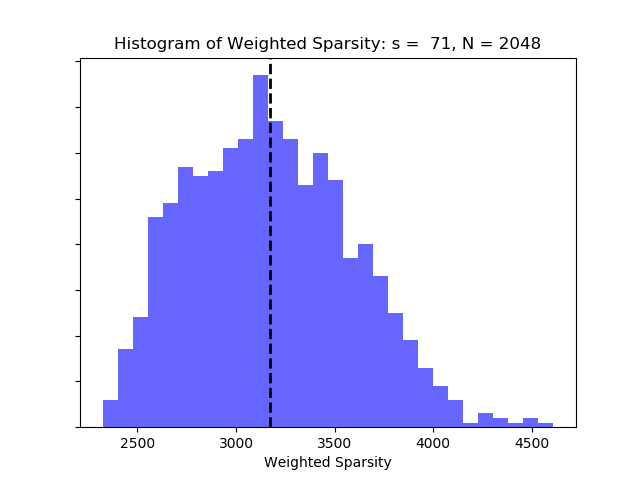
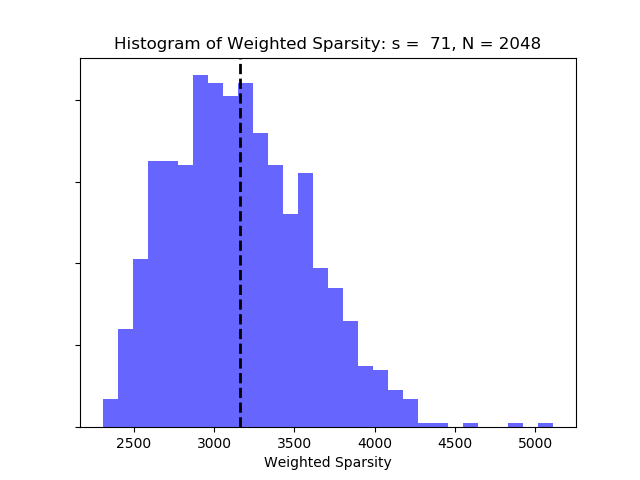
added new stats to data

diff --git a/gen_stats.py b/gen_stats.py
@@ -7,61 +7,63 @@ from trees import sTree
 import matplotlib.pyplot as plt
 from scipy.stats import norm # for normal random variable
 
-# number of basis functions
-bN = 2**11 # size of an N sample signal
-# number of realizations
-sampN = 1000
-# list for values of s
-svals = []
-# lists for storing data
-meanvals = []
-plus1std = []
-minus1std = []
+# iterate over different N which are powers of 2
+for d in range(7,15):
+    print(d)
+    # number of basis functions
+    bN = 2**d # size of an N sample signal
+    # number of realizations
+    sampN = 1000
+    # list for values of s
+    svals = []
+    # lists for storing data
+    meanvals = []
+    plus1std = []
+    minus1std = []
 
-# iterate over various sparsity levels
-for sle in range(70,72):
-    # instantiate a tree
-    T = sTree(s=sle,N=bN)
-    print(sle)
-    # generate samples and compute average
-    avg = 0.
-    vals = [] # list of values of the K(T) for generated T's
+    # iterate over various sparsity levels
+    for sle in range(int(0.02*bN),int(0.10*bN)):
+        # instantiate a tree
+        T = sTree(s=sle,N=bN)
+        #print(sle)
+        # generate samples and compute average
+        vals = [] # list of values of the K(T) for generated T's
     
-    # generate sampN trees
-    for i in range(0,sampN):
-        T.reset_tree()
-        T.grow_tree()
-        # compute average
-        avg += (1./sampN)*T.norm
-        # save value
-        vals.append(T.norm)
+        # generate sampN trees
+        for i in range(0,sampN):
+            T.reset_tree()
+            T.grow_tree()
+            # save value
+            vals.append(T.norm)
     
-    # compute standard deviation
-    stdval = np.std(vals)
-    print(avg)
-    print(sum(vals)/len(vals))
+        # compute standard deviation
+        stdval = np.std(vals)
+        avg = sum(vals)/len(vals)
     
-    # genereate histogram
-    fig, ax = plt.subplots(1)
-    plt.hist(vals,bins=30,alpha=0.6,color='b')
-    plt.axvline(sum(vals)/len(vals), color='k', linestyle='dashed', linewidth=2)
-    ax.set_xlabel('Weighted Sparsity')
-    ax.set_yticklabels([])
-    title = "Histogram of Weighted Sparsity: s = %3d, N = %4d" % (sle,bN)
-    plt.title(title)
+        # genereate histogram
+        fig, ax = plt.subplots(1)
+        plt.hist(vals,bins=30,alpha=0.6,color='b')
+        plt.axvline(sum(vals)/len(vals), color='k', linestyle='dashed', linewidth=2)
+        ax.set_xlabel('Weighted Sparsity')
+        ax.set_yticklabels([])
+        title = "Histogram of Weighted Sparsity: s = %3d, N = %4d" % (sle,bN)
+        plt.title(title)
     
-    # save histogram
-    plt.savefig("plots/"+str(sle)+"_"+str(bN)+"_histo.png")
+        # save histogram
+        plt.savefig("plots/"+str(sle)+"_"+str(bN)+"_histo.png")
+        # close figure
+        plt.close(1)
 
-    # save the data to appropriate arrays
-    svals.append(sle)
-    plus1std.append(avg + stdval)
-    minus1std.append(max(avg - stdval,0))
-    meanvals.append(avg)
+        # save the data to appropriate arrays
+        svals.append(sle)
+        plus1std.append(avg + stdval)
+        minus1std.append(max(avg - stdval,0))
+        meanvals.append(avg)
 
-# save the generated data to be used for plotting later
-bNstr = str(bN)
-np.save('data/'+bNstr+'_svals.npy',svals)
-np.save('data/'+bNstr+'_means.npy',meanvals)
-np.save('data/'+bNstr+'_p1std.npy',plus1std)
-np.save('data/'+bNstr+'_m1std.npy',minus1std)
+    # save the generated data to be used for plotting later
+    sstr = str(sle)
+    bNstr = str(bN)
+    np.save('data/'+bNstr+'_svals.npy',svals)
+    np.save('data/'+bNstr+'_means.npy',meanvals)
+    np.save('data/'+bNstr+'_p1std.npy',plus1std)
+    np.save('data/'+bNstr+'_m1std.npy',minus1std)

diff --git a/get_plot_kts_growth.py b/get_plot_kts_growth.py
@@ -8,7 +8,7 @@ from cal_kts import BiTree
 
 
 # calculate \Theta^2s for fixed N
-d = 11
+d = 12
 N = 2**d
 num = str(N)
 # load data from file
@@ -39,9 +39,7 @@ plt.plot(svals,meanvals,label='$\mathbb{E}[K(T_s)$]')
 plt.plot(svals,theta2s,label='$\Theta^2s$')
 plt.plot(svals,ksvals,label='$K_{\mathcal{T}}(s)$')
 # plot N
-plt.plot(svals,N*np.ones((len(svals),)),label='$N=2^{11}$')
-# plot some desired sparsity growth
-plt.plot(svals,11*svals**(2),label='$C(s)$')
+plt.plot(svals,N*np.ones((len(svals),)),label='$N=$'+num)
 
 # set axis scale
 ax.set_yscale('log')
@@ -51,7 +49,6 @@ plt.legend(loc=4)
 
 # set axis label
 plt.xlabel('$s$--number of non-zero coefficients')
-#plt.ylabel('$\Theta^2s$')
 plt.title('Comparsion of Sampling Complexities for $N=2^{11}$')
 
 # show the how plot
